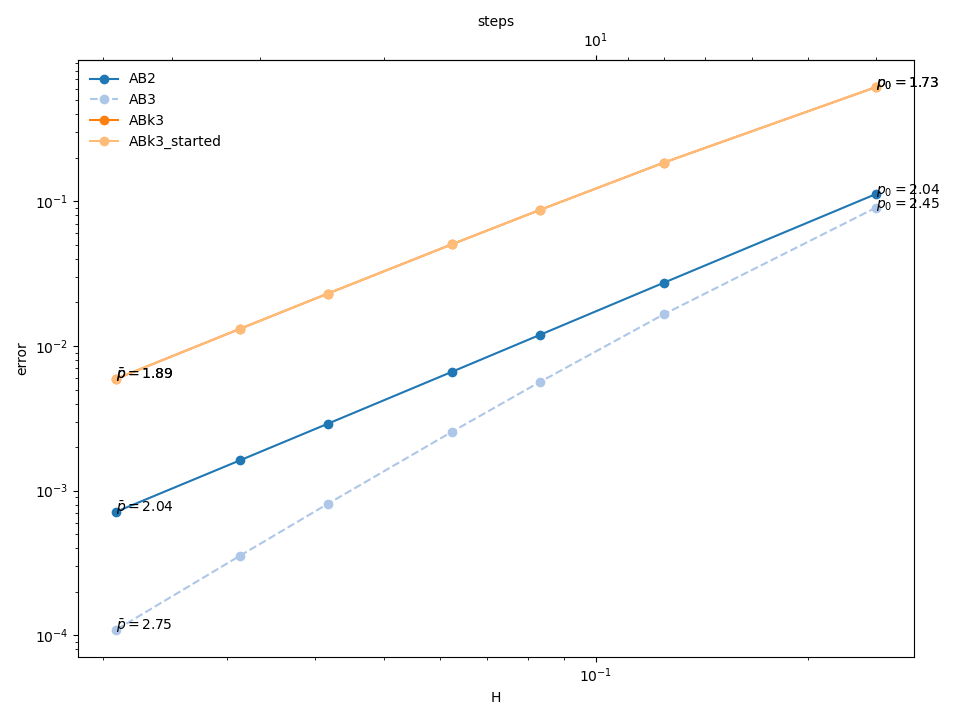
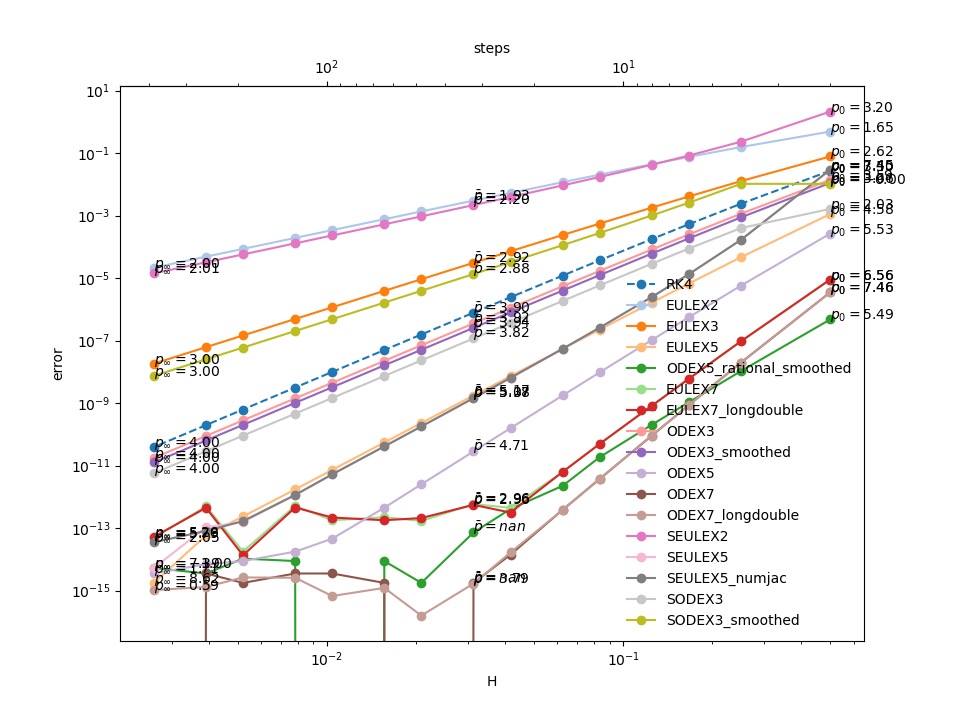
formatting fixes and convergence plot

diff --git a/problems/convergence.py b/problems/convergence.py
@@ -337,12 +337,12 @@ for i, (scheme_name, (errors, _)) in enumerate(conv_data.items()):
     )
     ax.text(t_max / N_list[0], errors[0], f"$p_0 = {rate[0]:.2f}$")
     ax.text(t_max / N_list[-1], errors[-1], f"$p_\\infty = {rate[-1]:.2f}$")
-    for k in range(len(N_list) - 1):
-        ax.text(
-            t_max / N_list[k],
-            errors[k],
-            f"$p_{k} = {rate[k]:.2f}$\n$N = {N_list[k]}\\to{N_list[k + 1]}$",
-        )
+    # for k in range(len(N_list) - 1):
+    #     ax.text(
+    #         t_max / N_list[k],
+    #         errors[k],
+    #         f"$p_{k} = {rate[k]:.2f}$\n$N = {N_list[k]}\\to{N_list[k + 1]}$",
+    #     )
 
 
 plt.legend(frameon=False)

diff --git a/src/solvers/implicit.py b/src/solvers/implicit.py
@@ -13,8 +13,6 @@ from modules.root_finding import NewtonODE
 
 logger = logging.getLogger(__name__)
 
-logger = logging.getLogger(__name__)
-
 
 def Backwards_Euler(
     ode_fun: Callable[[float, NDArray[np.floating]], NDArray[np.floating]],

diff --git a/TODO.md b/TODO.md
@@ -7,7 +7,7 @@
 - Deuflhard control correctly with information theory, storing which errors fail how often
 - PI control
 - Shampine SIMP control
-- monitor growth of basic:scheme solutions? Early versions of METAN1
+- monitor growth of basic_scheme solutions? Early versions of METAN1
 
 - find good default values for implicit_rel_costs (will depend on the equation, maybe even provide a function to find it automatically?)
 
